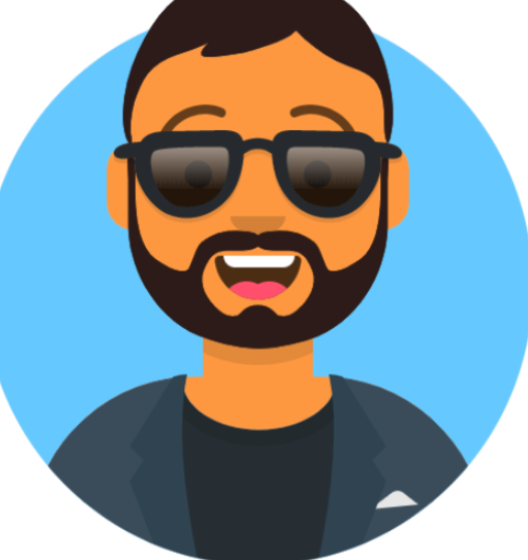
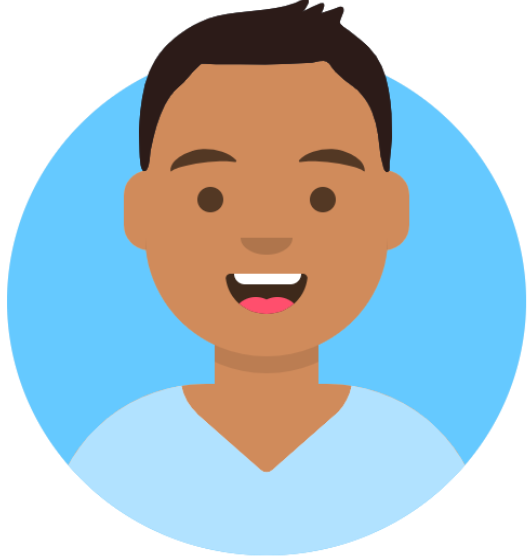
new ava

diff --git a/index.html b/index.html
@@ -39,7 +39,7 @@
     <div class="d-flex flex-column">
 
       <div class="profile">
-        <img src="assets/img/ava.png" alt="" class="img-fluid rounded-circle">
+        <img src="assets/img/ava.png" alt="" >
         <h1 class="text-light"><a href="index.html">Utkarsh Dubey</a></h1>
         <div class="social-links mt-3 text-center">
           <a href="https://github.com/utkarsh-dubey" class="github"><i class="bx bxl-github"></i></a>

diff --git a/assets/css/style.css b/assets/css/style.css
@@ -77,7 +77,7 @@ h1, h2, h3, h4, h5, h6 {
   margin: 15px auto;
   display: block;
   width: 120px;
-  border: 8px solid #2c2f3f;
+  border: 8px ;
 }
 
 #header .profile h1 {
